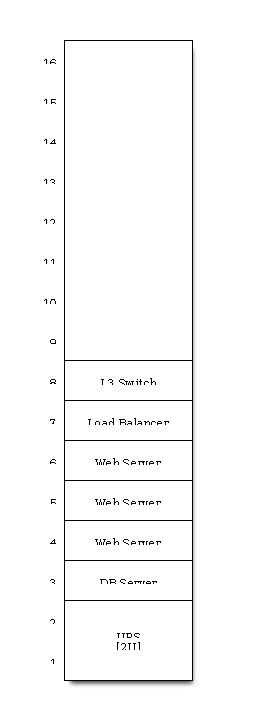
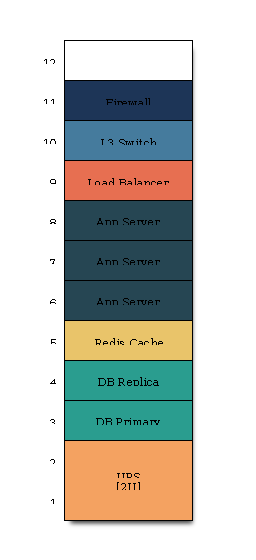
docs: improve rackdiag and vegalite README examples
Replace the sparse rackdiag and two-point Vega-Lite samples with a color-coded edge rack and a grouped monthly-users bar chart so the Kroki gallery thumbnails read clearly.

diff --git a/tools/kroki/kroki_templates.py b/tools/kroki/kroki_templates.py
@@ -266,14 +266,19 @@ order1 --> customer: placed by
 }""",
             # RackDiag example
             "rackdiag": """rackdiag {
-  16U;
-  1: UPS [2U];
-  3: DB Server;
-  4: Web Server;
-  5: Web Server;
-  6: Web Server;
-  7: Load Balancer;
-  8: L3 Switch;
+  12U;
+  default_fontsize = 11;
+
+  1: UPS [2U, color = "#f4a261"];
+  3: DB Primary [color = "#2a9d8f"];
+  4: DB Replica [color = "#2a9d8f"];
+  5: Redis Cache [color = "#e9c46a"];
+  6: App Server [color = "#264653"];
+  7: App Server [color = "#264653"];
+  8: App Server [color = "#264653"];
+  9: Load Balancer [color = "#e76f51"];
+  10: L3 Switch [color = "#457b9d"];
+  11: Firewall [color = "#1d3557"];
 }""",
             # C4 diagram (PlantUML extension) example
             "c4plantuml": """!include <C4/C4_Context>
@@ -460,7 +465,42 @@ endmodule""",
             # Vega example
             "vega": """{"$schema":"https://vega.github.io/schema/vega/v5.json","width":200,"height":200,"data":[{"name":"table","values":[{"x":1,"y":2},{"x":2,"y":4}]}],"scales":[{"name":"x","type":"linear","range":"width","nice":true,"domain":{"data":"table","field":"x"}},{"name":"y","type":"linear","range":"height","nice":true,"domain":{"data":"table","field":"y"}}],"axes":[{"orient":"bottom","scale":"x","title":"x"},{"orient":"left","scale":"y","title":"y"}],"marks":[{"type":"symbol","from":{"data":"table"},"encode":{"enter":{"x":{"scale":"x","field":"x"},"y":{"scale":"y","field":"y"},"size":{"value":50}}}}]}""",
             # Vega-Lite example
-            "vegalite": """{"$schema":"https://vega.github.io/schema/vega-lite/v5.json","data":{"values":[{"a":1,"b":2},{"a":2,"b":4}]},"mark":"point","encoding":{"x":{"field":"a","type":"quantitative"},"y":{"field":"b","type":"quantitative"}}}""",
+            "vegalite": """{
+  "$schema": "https://vega.github.io/schema/vega-lite/v5.json",
+  "title": "Monthly active users",
+  "width": 280,
+  "height": 180,
+  "data": {
+    "values": [
+      {"month": "Jan", "users": 120, "plan": "Free"},
+      {"month": "Jan", "users": 80, "plan": "Pro"},
+      {"month": "Feb", "users": 140, "plan": "Free"},
+      {"month": "Feb", "users": 110, "plan": "Pro"},
+      {"month": "Mar", "users": 160, "plan": "Free"},
+      {"month": "Mar", "users": 150, "plan": "Pro"},
+      {"month": "Apr", "users": 180, "plan": "Free"},
+      {"month": "Apr", "users": 190, "plan": "Pro"}
+    ]
+  },
+  "mark": {"type": "bar", "cornerRadiusTopLeft": 3, "cornerRadiusTopRight": 3},
+  "encoding": {
+    "x": {
+      "field": "month",
+      "type": "ordinal",
+      "title": "Month",
+      "sort": ["Jan", "Feb", "Mar", "Apr"],
+      "axis": {"labelAngle": 0}
+    },
+    "y": {"field": "users", "type": "quantitative", "title": "Users"},
+    "color": {
+      "field": "plan",
+      "type": "nominal",
+      "title": "Plan",
+      "scale": {"range": ["#94a3b8", "#0ea5e9"]}
+    },
+    "xOffset": {"field": "plan"}
+  }
+}""",
             # WaveDrom example
             "wavedrom": """{ "signal": [
   { "name": "clk", "wave": "p...." },
@@ -787,10 +827,12 @@ Rel(user, system, "Uses")""",
 }""",
             # RackDiag template
             "rackdiag": """rackdiag {
-  16U;
-  1: Server 1;
-  2: Server 2;
-  3: Switch;
+  8U;
+  1: UPS [2U, color = "#f4a261"];
+  3: DB [color = "#2a9d8f"];
+  4: App [color = "#264653"];
+  5: LB [color = "#e76f51"];
+  6: Switch [color = "#457b9d"];
 }""",
             # Ditaa template
             "ditaa": """+------+     +------+
@@ -884,7 +926,20 @@ endmodule""",
             # Vega template
             "vega": """{"$schema":"https://vega.github.io/schema/vega/v5.json","width":200,"height":200,"data":[{"name":"d","values":[{"v":1},{"v":2}]}],"marks":[{"type":"rect","from":{"data":"d"},"encode":{"enter":{"x":{"value":0},"y":{"scale":"y","field":"v"},"width":{"value":20},"height":{"scale":"y","band":1}}}}],"scales":[{"name":"y","type":"band","range":"height","domain":{"data":"d","field":"v"}}],"axes":[{"orient":"left","scale":"y","title":"v"}]}""",
             # Vega-Lite template
-            "vegalite": """{"$schema":"https://vega.github.io/schema/vega-lite/v5.json","data":{"values":[{"a":1},{"a":2}]},"mark":"bar","encoding":{"x":{"field":"a","type":"quantitative"}}}""",
+            "vegalite": """{
+  "$schema": "https://vega.github.io/schema/vega-lite/v5.json",
+  "title": "Signups",
+  "data": {"values": [
+    {"month": "Jan", "n": 40},
+    {"month": "Feb", "n": 55},
+    {"month": "Mar", "n": 70}
+  ]},
+  "mark": "bar",
+  "encoding": {
+    "x": {"field": "month", "type": "ordinal", "title": "Month"},
+    "y": {"field": "n", "type": "quantitative", "title": "Users"}
+  }
+}""",
             # WaveDrom template
             "wavedrom": """{ "signal": [
   { "name": "clk", "wave": "p...." },

diff --git a/.skill/skills/vegalite/SKILL.md b/.skill/skills/vegalite/SKILL.md
@@ -22,13 +22,61 @@ Load the workflow skill [uml-mcp-diagrams](../uml-mcp-diagrams/SKILL.md) for URL
 ## Starter template
 
 ```vegalite
-{"$schema":"https://vega.github.io/schema/vega-lite/v5.json","data":{"values":[{"a":1},{"a":2}]},"mark":"bar","encoding":{"x":{"field":"a","type":"quantitative"}}}
+{
+  "$schema": "https://vega.github.io/schema/vega-lite/v5.json",
+  "title": "Signups",
+  "data": {"values": [
+    {"month": "Jan", "n": 40},
+    {"month": "Feb", "n": 55},
+    {"month": "Mar", "n": 70}
+  ]},
+  "mark": "bar",
+  "encoding": {
+    "x": {"field": "month", "type": "ordinal", "title": "Month"},
+    "y": {"field": "n", "type": "quantitative", "title": "Users"}
+  }
+}
 ```
 
 ## Example
 
 ```vegalite
-{"$schema":"https://vega.github.io/schema/vega-lite/v5.json","data":{"values":[{"a":1,"b":2},{"a":2,"b":4}]},"mark":"point","encoding":{"x":{"field":"a","type":"quantitative"},"y":{"field":"b","type":"quantitative"}}}
+{
+  "$schema": "https://vega.github.io/schema/vega-lite/v5.json",
+  "title": "Monthly active users",
+  "width": 280,
+  "height": 180,
+  "data": {
+    "values": [
+      {"month": "Jan", "users": 120, "plan": "Free"},
+      {"month": "Jan", "users": 80, "plan": "Pro"},
+      {"month": "Feb", "users": 140, "plan": "Free"},
+      {"month": "Feb", "users": 110, "plan": "Pro"},
+      {"month": "Mar", "users": 160, "plan": "Free"},
+      {"month": "Mar", "users": 150, "plan": "Pro"},
+      {"month": "Apr", "users": 180, "plan": "Free"},
+      {"month": "Apr", "users": 190, "plan": "Pro"}
+    ]
+  },
+  "mark": {"type": "bar", "cornerRadiusTopLeft": 3, "cornerRadiusTopRight": 3},
+  "encoding": {
+    "x": {
+      "field": "month",
+      "type": "ordinal",
+      "title": "Month",
+      "sort": ["Jan", "Feb", "Mar", "Apr"],
+      "axis": {"labelAngle": 0}
+    },
+    "y": {"field": "users", "type": "quantitative", "title": "Users"},
+    "color": {
+      "field": "plan",
+      "type": "nominal",
+      "title": "Plan",
+      "scale": {"range": ["#94a3b8", "#0ea5e9"]}
+    },
+    "xOffset": {"field": "plan"}
+  }
+}
 ```
 
 ## Render with uml-mcp

diff --git a/.skill/skills/rackdiag/SKILL.md b/.skill/skills/rackdiag/SKILL.md
@@ -23,10 +23,12 @@ Load the workflow skill [uml-mcp-diagrams](../uml-mcp-diagrams/SKILL.md) for URL
 
 ```rackdiag
 rackdiag {
-  16U;
-  1: Server 1;
-  2: Server 2;
-  3: Switch;
+  8U;
+  1: UPS [2U, color = "#f4a261"];
+  3: DB [color = "#2a9d8f"];
+  4: App [color = "#264653"];
+  5: LB [color = "#e76f51"];
+  6: Switch [color = "#457b9d"];
 }
 ```
 
@@ -34,14 +36,19 @@ rackdiag {
 
 ```rackdiag
 rackdiag {
-  16U;
-  1: UPS [2U];
-  3: DB Server;
-  4: Web Server;
-  5: Web Server;
-  6: Web Server;
-  7: Load Balancer;
-  8: L3 Switch;
+  12U;
+  default_fontsize = 11;
+
+  1: UPS [2U, color = "#f4a261"];
+  3: DB Primary [color = "#2a9d8f"];
+  4: DB Replica [color = "#2a9d8f"];
+  5: Redis Cache [color = "#e9c46a"];
+  6: App Server [color = "#264653"];
+  7: App Server [color = "#264653"];
+  8: App Server [color = "#264653"];
+  9: Load Balancer [color = "#e76f51"];
+  10: L3 Switch [color = "#457b9d"];
+  11: Firewall [color = "#1d3557"];
 }
 ```
 
